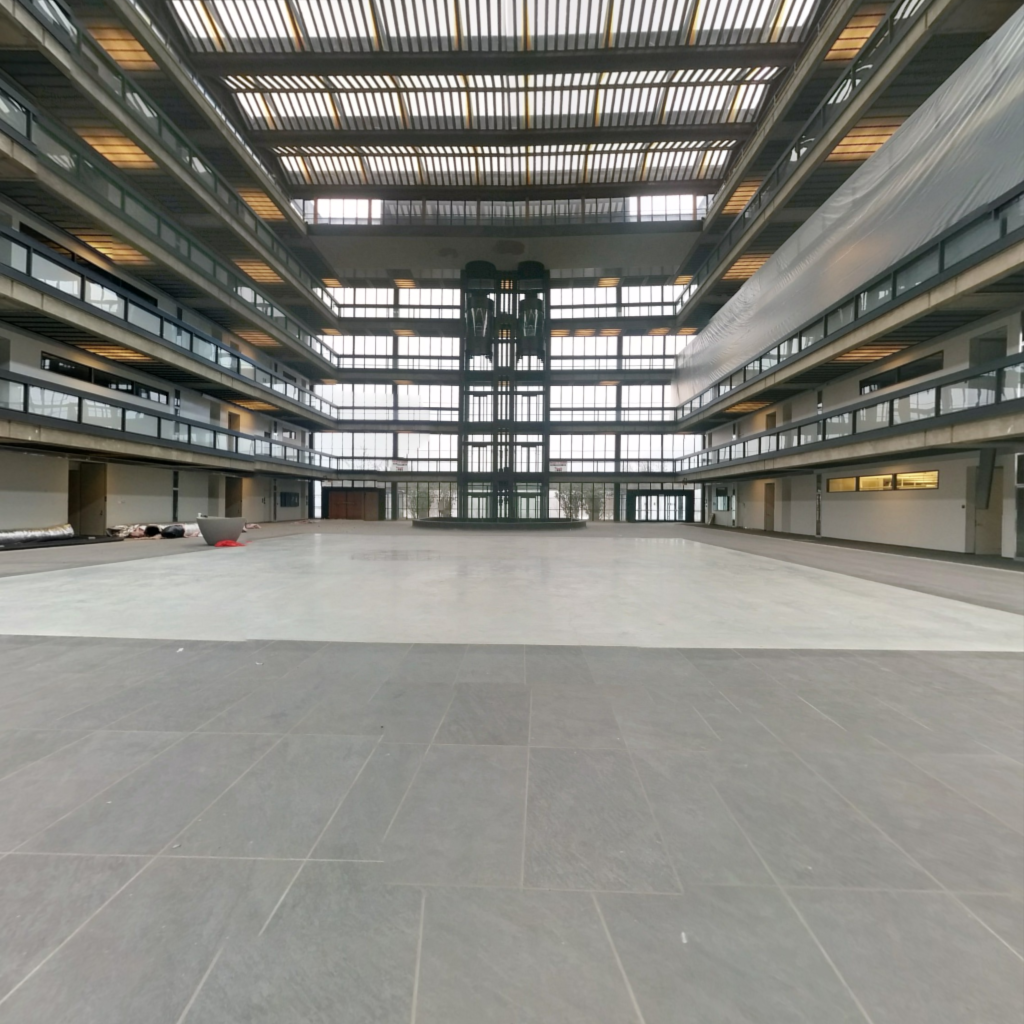
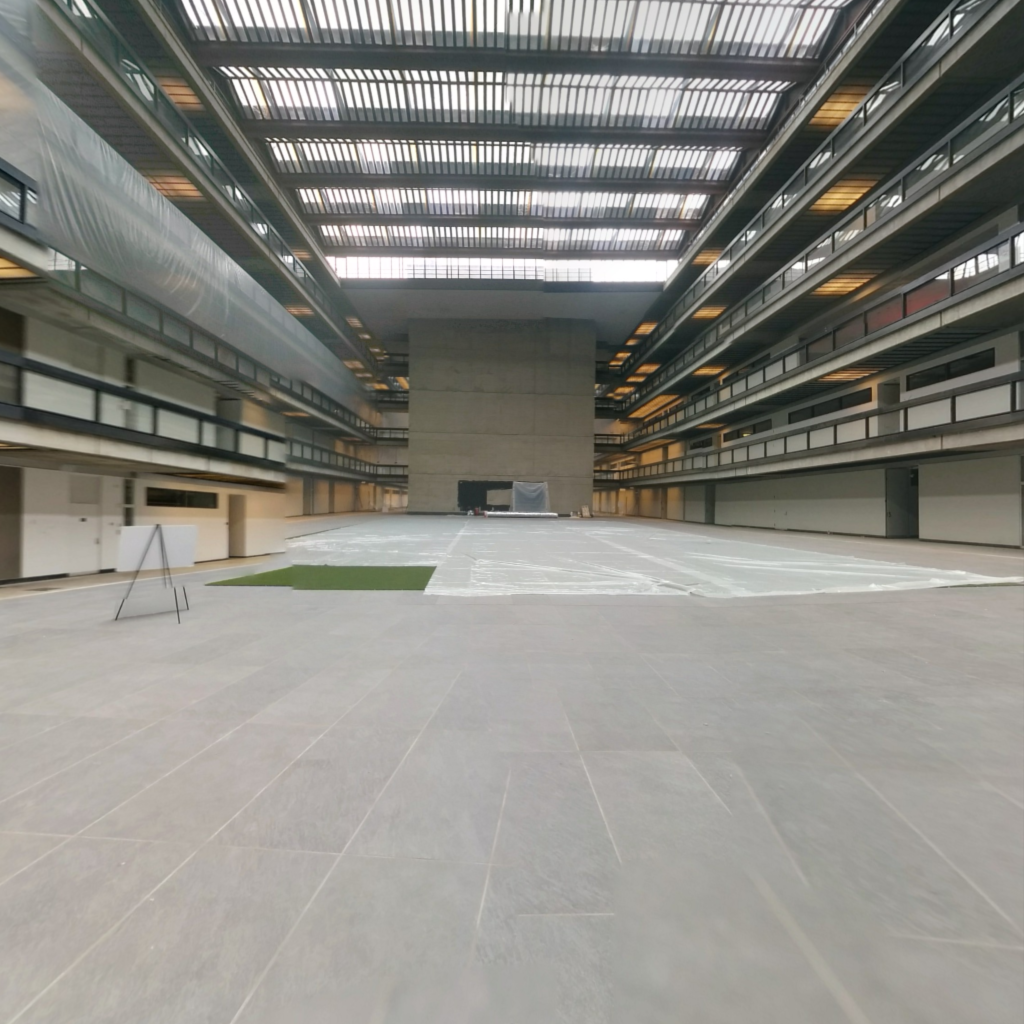
Photoshopped fragmented images in order to make it far more readable for the user

diff --git a/index.html b/index.html
@@ -92,28 +92,28 @@
 			var skyGeo = new THREE.BoxGeometry(5000,5000,5000);
 			var materialArray = [];
 				materialArray.push( new THREE.MeshBasicMaterial({ 
-					map: THREE.ImageUtils.loadTexture("./img/MakerShopSkyBox/neg-x.png"),
+					map: THREE.ImageUtils.loadTexture("./img/BellWorksSkyBox/neg-x.png"),
 					//render on inner side of cube
 					side: THREE.BackSide
 				}));
 				materialArray.push( new THREE.MeshBasicMaterial({ 
-					map: THREE.ImageUtils.loadTexture("./img/MakerShopSkyBox/pos-x.png"),
+					map: THREE.ImageUtils.loadTexture("./img/BellWorksSkyBox/pos-x.png"),
 					side: THREE.BackSide
 				}));
 				materialArray.push( new THREE.MeshBasicMaterial({ 
-					map: THREE.ImageUtils.loadTexture("./img/MakerShopSkyBox/pos-y.png"),
+					map: THREE.ImageUtils.loadTexture("./img/BellWorksSkyBox/pos-y.png"),
 					side: THREE.BackSide
 				}));
 				materialArray.push( new THREE.MeshBasicMaterial({ 
-					map: THREE.ImageUtils.loadTexture("./img/MakerShopSkyBox/neg-y.png"),
+					map: THREE.ImageUtils.loadTexture("./img/BellWorksSkyBox/neg-y.png"),
 					side: THREE.BackSide
 				}));
 				materialArray.push( new THREE.MeshBasicMaterial({ 
-					map: THREE.ImageUtils.loadTexture("./img/MakerShopSkyBox/neg-z.png"),
+					map: THREE.ImageUtils.loadTexture("./img/BellWorksSkyBox/neg-z.png"),
 					side: THREE.BackSide
 				}));
 				materialArray.push( new THREE.MeshBasicMaterial({ 
-					map: THREE.ImageUtils.loadTexture("./img/MakerShopSkyBox/pos-z.png"),
+					map: THREE.ImageUtils.loadTexture("./img/BellWorksSkyBox/pos-z.png"),
 					side: THREE.BackSide
 				}));
 			var skyMaterial = new THREE.MeshFaceMaterial(materialArray);
